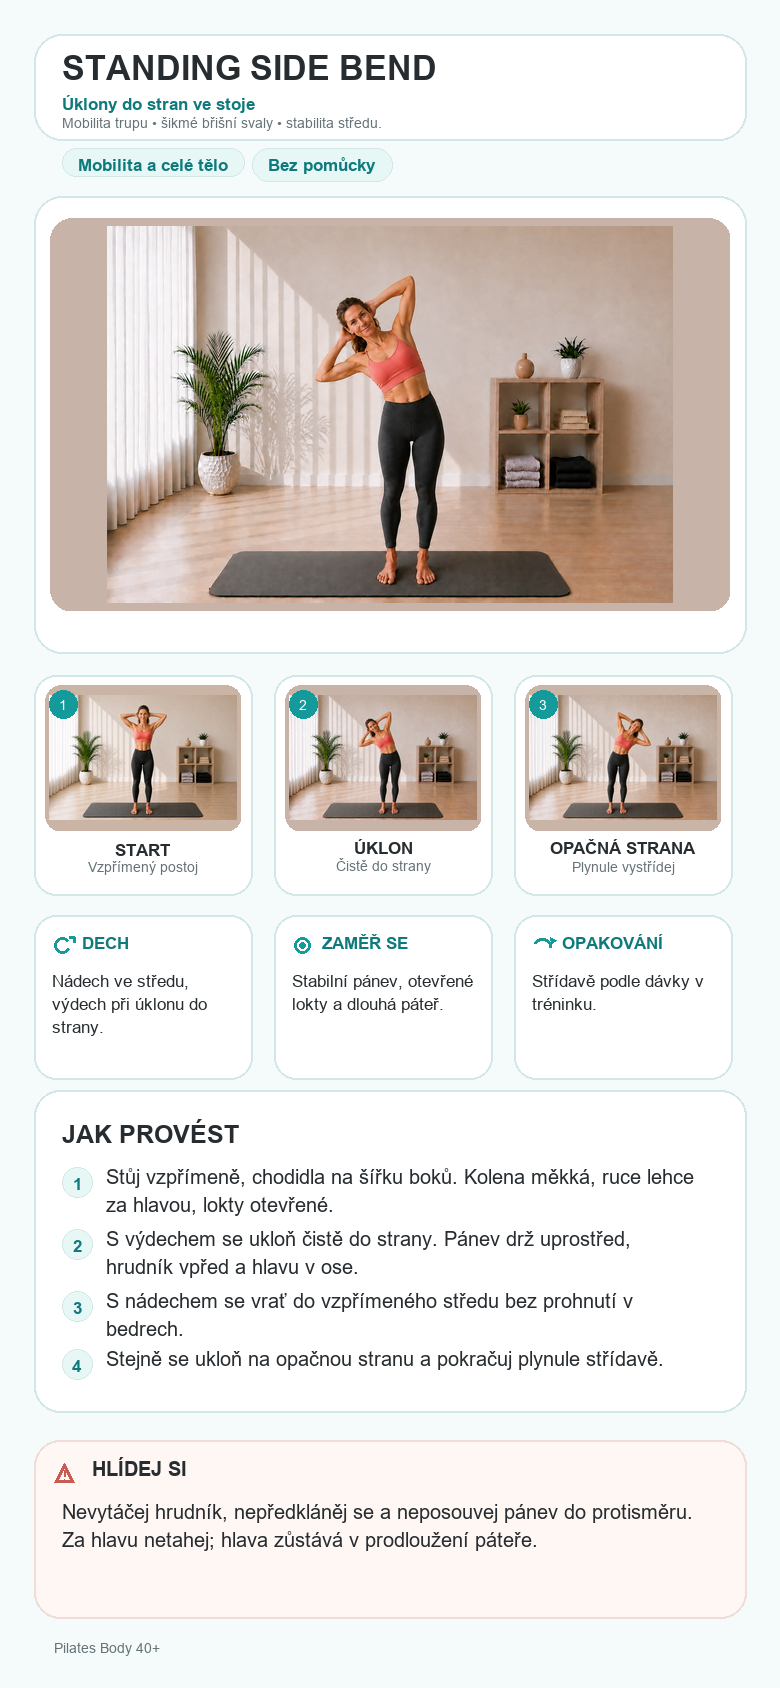
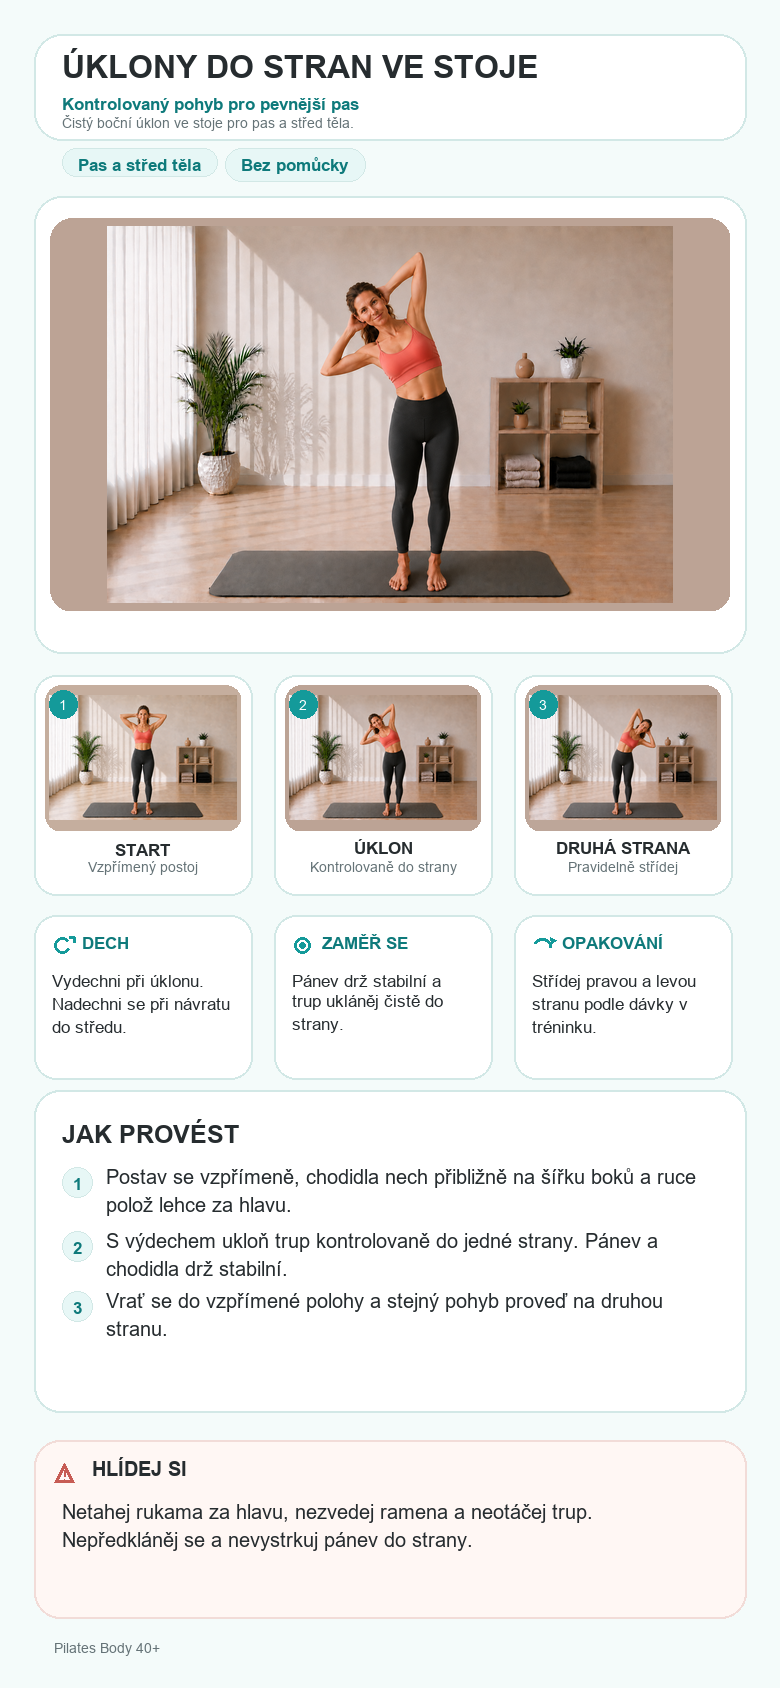
a

diff --git a/Pilates Assets/02_Exercise_Cards/Standing Side Bend/build_standing_side_bend_cards.py b/Pilates Assets/02_Exercise_Cards/Standing Side Bend/build_standing_side_bend_cards.py
@@ -1,0 +1,322 @@
+# -*- coding: utf-8 -*-
+from pathlib import Path
+import hashlib
+
+from PIL import Image, ImageDraw, ImageFont, ImageOps, ImageStat
+
+
+BASE = Path(__file__).resolve().parent
+START = BASE / "standing_side_bend_start_v02.png"
+HERO = BASE / "standing_side_bend_hero_v02.png"
+OPPOSITE = BASE / "standing_side_bend_hero_opposite_v02.png"
+GUIDE = BASE / "standing_side_bend_guide_card_v01.png"
+STEP = BASE / "standing_side_bend_step_by_step_v01.png"
+EXPECTED_HASHES = {
[3 lines of base64/hex data omitted]
+}
+
+BG = (244, 251, 250)
+CARD = (255, 255, 255)
+INK = (38, 44, 47)
+MUTED = (101, 115, 119)
+TEAL = (20, 154, 154)
+TEAL_D = (14, 122, 123)
+LINE = (210, 232, 230)
+SOFT = (231, 247, 246)
+WARN = (255, 247, 244)
+WARN_LINE = (242, 220, 216)
+WARN_ICON = (199, 92, 84)
+FONT_DIR = Path(r"C:\Windows\Fonts")
+
+def sha256(path):
+    return hashlib.sha256(path.read_bytes()).hexdigest()
+
+
+def font(name, size):
+    for candidate in (FONT_DIR / name, FONT_DIR / "arial.ttf", FONT_DIR / "segoeui.ttf"):
+        if candidate.exists():
+            return ImageFont.truetype(str(candidate), size)
+    return ImageFont.load_default()
+
+
+F = {
+    "title": font("arialbd.ttf", 34),
+    "h2": font("arialbd.ttf", 25),
+    "h3": font("arialbd.ttf", 20),
+    "body": font("arial.ttf", 20),
+    "small": font("arial.ttf", 17),
+    "small_b": font("arialbd.ttf", 17),
+    "tiny": font("arial.ttf", 14),
+    "step_title": font("arialbd.ttf", 38),
+    "step_h": font("arialbd.ttf", 24),
+    "step_body": font("arial.ttf", 23),
+}
+
+
+def rounded(draw, box, radius=28, fill=CARD, outline=LINE, width=2):
+    draw.rounded_rectangle(box, radius=radius, fill=fill, outline=outline, width=width)
+
+
+def wrap_text(draw, text, selected_font, max_width):
+    lines, current = [], ""
+    for word in text.split():
+        candidate = (current + " " + word).strip()
+        if draw.textbbox((0, 0), candidate, font=selected_font)[2] <= max_width or not current:
+            current = candidate
+        else:
+            lines.append(current)
+            current = word
+    if current:
+        lines.append(current)
+    return lines
+
+
+def draw_wrapped(draw, xy, text, selected_font, fill, max_width, line_gap=7):
+    x, y = xy
+    last_bottom = y
+    for line in wrap_text(draw, text, selected_font, max_width):
+        draw.text((x, y), line, font=selected_font, fill=fill)
+        bbox = draw.textbbox((x, y), line, font=selected_font)
+        last_bottom = bbox[3]
+        y += draw.textbbox((0, 0), line, font=selected_font)[3] + line_gap
+    return y, last_bottom
+
+
+def fit_image(path, size, centering=(0.5, 0.58)):
+    with Image.open(path) as source:
+        return ImageOps.fit(
+            source.convert("RGB"), size, method=Image.Resampling.LANCZOS, centering=centering
+        )
+
+
+def contain_image(path, size, margin=6):
+    with Image.open(path) as source:
+        rgb = source.convert("RGB")
+        inner_size = (size[0] - 2 * margin, size[1] - 2 * margin)
+        contained = ImageOps.contain(rgb, inner_size, method=Image.Resampling.LANCZOS)
+        width, height = rgb.size
+        wall_sample = rgb.crop((width // 3, 0, 2 * width // 3, max(1, height // 6)))
+        background = tuple(round(value) for value in ImageStat.Stat(wall_sample).mean)
+        canvas = Image.new("RGB", size, background)
+        canvas.paste(contained, ((size[0] - contained.width) // 2, (size[1] - contained.height) // 2))
+        return canvas
+
+def paste_round(base, image, box, radius=22):
+    x1, y1, x2, y2 = box
+    size = (x2 - x1, y2 - y1)
+    if image.size != size:
+        image = image.resize(size, Image.Resampling.LANCZOS)
+    mask = Image.new("L", size, 0)
+    ImageDraw.Draw(mask).rounded_rectangle((0, 0, size[0], size[1]), radius=radius, fill=255)
+    base.paste(image, (x1, y1), mask)
+
+
+def center_text(draw, box, text, selected_font, fill):
+    x1, y1, x2, y2 = box
+    bbox = draw.textbbox((0, 0), text, font=selected_font)
+    x = x1 + (x2 - x1 - (bbox[2] - bbox[0])) / 2
+    y = y1 + (y2 - y1 - (bbox[3] - bbox[1])) / 2 - 2
+    draw.text((x, y), text, font=selected_font, fill=fill)
+
+
+def pill(draw, xy, text, selected_font):
+    x, y = xy
+    bbox = draw.textbbox((0, 0), text, font=selected_font)
+    box = (x, y, x + bbox[2] - bbox[0] + 32, y + bbox[3] - bbox[1] + 16)
+    draw.rounded_rectangle(box, radius=16, fill=SOFT, outline=LINE, width=1)
+    draw.text((x + 16, y + 7), text, font=selected_font, fill=TEAL_D)
+    return box[2] + 8
+
+
+def draw_icon(draw, center, kind, color=TEAL):
+    x, y = center
+    if kind == "breath":
+        draw.arc((x - 8, y - 8, x + 8, y + 8), 25, 320, fill=color, width=3)
+        draw.line((x + 7, y - 8, x + 12, y - 8, x + 12, y - 3), fill=color, width=3)
+    elif kind == "focus":
+        draw.ellipse((x - 8, y - 8, x + 8, y + 8), outline=color, width=3)
+        draw.ellipse((x - 3, y - 3, x + 3, y + 3), fill=color)
+    elif kind == "repeat":
+        draw.arc((x - 9, y - 7, x + 9, y + 7), 200, 20, fill=color, width=3)
+        draw.polygon([(x + 8, y - 8), (x + 14, y - 5), (x + 9, y - 1)], fill=color)
+    elif kind == "warn":
+        draw.polygon([(x, y - 10), (x - 10, y + 9), (x + 10, y + 9)], outline=color, width=3)
+        draw.line((x, y - 3, x, y + 3), fill=color, width=2)
+        draw.ellipse((x - 1, y + 6, x + 1, y + 8), fill=color)
+
+
+def ensure_bottom_margin(name, bottom, card_bottom, minimum=20):
+    margin = card_bottom - bottom
+    if margin < minimum:
+        raise RuntimeError(f"{name} bottom margin {margin}px is below {minimum}px")
+    return margin
+
+
+def verify_sources():
+    for path, expected_hash in EXPECTED_HASHES.items():
+        if not path.exists():
+            raise FileNotFoundError(path)
+        with Image.open(path) as image:
+            if image.size != (1536, 1024):
+                raise RuntimeError(f"Unexpected source size for {path.name}: {image.size}")
+        if sha256(path) != expected_hash:
+            raise RuntimeError(f"SHA mismatch for {path.name}")
+
+
+def build_guide():
+    image = Image.new("RGB", (780, 1688), BG)
+    draw = ImageDraw.Draw(image)
+    margins = {}
+
+    rounded(draw, (34, 34, 746, 140))
+    draw.text((62, 49), "ÚKLONY DO STRAN VE STOJE", font=font("arialbd.ttf", 32), fill=INK)
+    draw.text((62, 94), "Kontrolovaný pohyb pro pevnější pas", font=F["small_b"], fill=TEAL_D)
+    _, desc_bottom = draw_wrapped(
+        draw, (62, 115), "Čistý boční úklon ve stoje pro pas a střed těla.",
+        F["tiny"], MUTED, 650, 2
+    )
+    margins["GUIDE DESCRIPTION"] = 140 - desc_bottom
+    x = pill(draw, (62, 148), "Pas a střed těla", F["small_b"])
+    pill(draw, (x, 148), "Bez pomůcky", F["small_b"])
+
+    rounded(draw, (34, 196, 746, 653))
+    paste_round(image, contain_image(HERO, (680, 393), 8), (50, 218, 730, 611))
+
+    mini_y, mini_w, mini_h = 675, 218, 146
+    xs = [34, 274, 514]
+    labels = [
+        ("START", "Vzpřímený postoj", START),
+        ("ÚKLON", "Kontrolovaně do strany", HERO),
+        ("DRUHÁ STRANA", "Pravidelně střídej", OPPOSITE),
+    ]
+    for index, (x0, (label, caption, source)) in enumerate(zip(xs, labels), 1):
+        card_bottom = mini_y + mini_h + 74
+        rounded(draw, (x0, mini_y, x0 + mini_w, card_bottom), 22)
+        paste_round(image, contain_image(source, (mini_w - 22, mini_h), 4),
+                    (x0 + 11, mini_y + 10, x0 + mini_w - 11, mini_y + 10 + mini_h), 16)
+        draw.ellipse((x0 + 15, mini_y + 15, x0 + 43, mini_y + 43), fill=TEAL)
+        center_text(draw, (x0 + 15, mini_y + 15, x0 + 43, mini_y + 43), str(index), F["tiny"], CARD)
+        center_text(draw, (x0 + 5, mini_y + mini_h + 14, x0 + mini_w - 5, mini_y + mini_h + 40), label, F["small_b"], INK)
+        center_text(draw, (x0 + 8, mini_y + mini_h + 38, x0 + mini_w - 8, mini_y + mini_h + 57), caption, F["tiny"], MUTED)
+        caption_bottom = draw.textbbox((0, 0), caption, font=F["tiny"])[3] + mini_y + mini_h + 38
+        margins[f"GUIDE MINI {index}"] = card_bottom - caption_bottom
+
+    info_y, box_w, box_h = 915, 218, 164
+    info = [
+        ("breath", "DECH", "Vydechni při úklonu. Nadechni se při návratu do středu."),
+        ("focus", "ZAMĚŘ SE", "Pánev drž stabilní a trup ukláněj čistě do strany."),
+        ("repeat", "OPAKOVÁNÍ", "Střídej pravou a levou stranu podle dávky v tréninku."),
+    ]
+    for index, (x0, (kind, heading, body)) in enumerate(zip(xs, info), 1):
+        card_bottom = info_y + box_h
+        rounded(draw, (x0, info_y, x0 + box_w, card_bottom), 22)
+        draw_icon(draw, (x0 + 28, info_y + 30), kind)
+        draw.text((x0 + 48, info_y + 18), heading, font=F["small_b"], fill=TEAL_D)
+        _, body_bottom = draw_wrapped(draw, (x0 + 18, info_y + 56), body, F["small"], INK, box_w - 36, 4)
+        margins[f"GUIDE INFO {index}"] = ensure_bottom_margin(f"Guide info {index}", body_bottom, card_bottom)
+
+    rounded(draw, (34, 1090, 746, 1412), 26)
+    draw.text((62, 1120), "JAK PROVÉST", font=F["h2"], fill=INK)
+    how = [
+        ("1", "Postav se vzpřímeně, chodidla nech přibližně na šířku boků a ruce polož lehce za hlavu."),
+        ("2", "S výdechem ukloň trup kontrolovaně do jedné strany. Pánev a chodidla drž stabilní."),
+        ("3", "Vrať se do vzpřímené polohy a stejný pohyb proveď na druhou stranu."),
+    ]
+    y = 1165
+    for number_value, body in how:
+        draw.ellipse((62, y + 2, 92, y + 32), fill=SOFT, outline=LINE, width=1)
+        center_text(draw, (62, y + 2, 92, y + 32), number_value, F["small_b"], TEAL_D)
+        y, body_bottom = draw_wrapped(draw, (106, y), body, F["body"], INK, 590, 5)
+        margins[f"GUIDE STEP {number_value}"] = 1412 - body_bottom
+        y += 8
+    margins["GUIDE HOW"] = ensure_bottom_margin("Guide how", body_bottom, 1412)
+
+    rounded(draw, (34, 1440, 746, 1618), 26, WARN, WARN_LINE, 2)
+    draw_icon(draw, (64, 1473), "warn", WARN_ICON)
+    draw.text((92, 1457), "HLÍDEJ SI", font=F["h3"], fill=INK)
+    _, watch_bottom = draw_wrapped(
+        draw, (62, 1500),
+        "Netahej rukama za hlavu, nezvedej ramena a neotáčej trup. Nepředkláněj se a nevystrkuj pánev do strany.",
+        F["body"], INK, 640, 5
+    )
+    margins["GUIDE WATCH"] = ensure_bottom_margin("Guide watch", watch_bottom, 1618)
+    draw.text((54, 1640), "Pilates Body 40+", font=F["tiny"], fill=MUTED)
+
+    image.save(GUIDE)
+    return margins
+def build_step():
+    image = Image.new("RGB", (780, 2280), BG)
+    draw = ImageDraw.Draw(image)
+    rounded(draw, (34, 34, 746, 126))
+    draw.text((62, 56), "Krok za krokem", font=F["step_title"], fill=INK)
+    draw.text((62, 98), "ÚKLONY DO STRAN VE STOJE", font=F["small_b"], fill=TEAL_D)
+
+    steps = [
+        ("KROK 1", "VÝCHOZÍ POLOHA",
+         "Postav se vzpřímeně, chodidla nech přibližně na šířku boků a ruce polož lehce za hlavu. Lokty nech otevřené do stran.", START),
+        ("KROK 2", "ÚKLON DO STRANY",
+         "S výdechem ukloň trup kontrolovaně do jedné strany. Pánev drž stabilní a obě chodidla nech pevně na podložce.", HERO),
+        ("KROK 3", "DRUHÁ STRANA",
+         "Vrať se do vzpřímené polohy a pohyb zopakuj na druhou stranu. Pravou a levou stranu pravidelně střídej.", OPPOSITE),
+    ]
+    y, margins = 160, {}
+    for step_label, heading, body, source in steps:
+        card_height = 595
+        card_bottom = y + card_height
+        rounded(draw, (34, y, 746, card_bottom))
+        draw.rounded_rectangle((58, y + 24, 148, y + 54), radius=15, fill=SOFT, outline=LINE, width=1)
+        center_text(draw, (58, y + 24, 148, y + 54), step_label, F["small_b"], TEAL_D)
+        draw.text((62, y + 72), heading, font=F["step_h"], fill=INK)
+        image_bottom = y + 466
+        paste_round(image, contain_image(source, (656, 352), 6), (62, y + 114, 718, image_bottom))
+        _, body_bottom = draw_wrapped(draw, (62, image_bottom + 16), body, F["step_body"], INK, 656, 7)
+        margins[step_label] = ensure_bottom_margin(step_label, body_bottom, card_bottom)
+        y += card_height + 5
+
+    rounded(draw, (34, y, 746, y + 275), 28, WARN, WARN_LINE, 2)
+    draw_icon(draw, (66, y + 45), "breath")
+    draw.text((98, y + 28), "DECH", font=F["step_h"], fill=INK)
+    next_y, breath_bottom = draw_wrapped(
+        draw, (62, y + 78),
+        "Vydechni při úklonu. Nadechni se při návratu do vzpřímené polohy.",
+        F["step_body"], INK, 650, 8
+    )
+    margins["STEP BREATH"] = y + 275 - breath_bottom
+    draw_icon(draw, (66, next_y + 29), "warn", WARN_ICON)
+    draw.text((98, next_y + 12), "HLÍDEJ SI", font=F["step_h"], fill=INK)
+    _, watch_bottom = draw_wrapped(
+        draw, (62, next_y + 52),
+        "Netahej rukama za hlavu, nezvedej ramena a neotáčej trup. Ukláněj se čistě do strany, nepředkláněj se a nevystrkuj pánev.",
+        F["body"], INK, 650, 5
+    )
+    margins["STEP WATCH"] = ensure_bottom_margin("Step watch", watch_bottom, y + 275)
+    draw.text((54, 2240), "Pilates Body 40+", font=F["tiny"], fill=MUTED)
+
+    image.save(STEP)
+    return margins
+def main():
+    verify_sources()
+    before = {path: sha256(path) for path in EXPECTED_HASHES}
+    guide_margins = build_guide()
+    step_margins = build_step()
+    after = {path: sha256(path) for path in EXPECTED_HASHES}
+    if before != after:
+        raise RuntimeError("Source image hash changed during export")
+    for path, expected_size in ((GUIDE, (780, 1688)), (STEP, (780, 2280))):
+        with Image.open(path) as image:
+            if image.size != expected_size:
+                raise RuntimeError(f"Unexpected export size for {path.name}: {image.size}")
+    print(f"Exported {GUIDE.name} 780x1688 SHA-256 {sha256(GUIDE)}")
+    print(f"Exported {STEP.name} 780x2280 SHA-256 {sha256(STEP)}")
+    for label, margin in guide_margins.items():
+        print(f"{label} bottom reserve: {margin}px")
+    for label, margin in step_margins.items():
+        print(f"{label} bottom reserve: {margin}px")
+    for path, digest in after.items():
+        print(f"Source unchanged {path.name}: {digest}")
+
+
+if __name__ == "__main__":
+    main()

diff --git a/Pilates Assets/02_Exercise_Cards/Standing Side Bend/STATUS.md b/Pilates Assets/02_Exercise_Cards/Standing Side Bend/STATUS.md
@@ -1,24 +1,41 @@
-# Standing Side Bend — STATUS
+# Standing Side Bend - STATUS
 
-Status: HOTOVO
+Status: HOTOVO / ASSETY v02 PRIPRAVENE
 
 ## Assets
 
-- EXERCISE_REFERENCE: není uložená v MASTER balíčku
-- START: `standing_side_bend_start_v01.png` — SCHVÁLENO
-- HERO: `standing_side_bend_hero_v01.png` — SCHVÁLENO
-- HERO OPAČNÁ STRANA: `standing_side_bend_hero_opposite_v01.png` — SCHVÁLENO
-- END: návrat do START bez samostatného END PNG — SCHVÁLENO
-- GUIDE CARD: `standing_side_bend_guide_card_v01.png` — SCHVÁLENO
-- STEP BY STEP: `standing_side_bend_step_by_step_v01.png` — SCHVÁLENO
+- EXERCISE_REFERENCE: neni ulozena v MASTER balicku
+- START: `standing_side_bend_start_v02.png` - SCHVALENO
+- HERO: `standing_side_bend_hero_v02.png` - SCHVALENO
+- HERO OPACNA STRANA: `standing_side_bend_hero_opposite_v02.png` - SCHVALENO
+- END: navrat do START v02 bez samostatneho END PNG
+- GUIDE CARD: `standing_side_bend_guide_card_v01.png` - VYGENEROVANO
+- STEP BY STEP: `standing_side_bend_step_by_step_v01.png` - VYGENEROVANO
 - EXPORT: HOTOVO
-- QA: SCHVÁLENO
-- APP: NASAZENO
+- QA: HOTOVO - vizualni kontrola exportu
+- APP: BEZE ZMENY V TOMTO UKOLU
 
 ## Workflow
 
-START → úklon na jednu stranu → START → úklon na opačnou stranu
+START -> HERO jedna strana -> HERO opacna strana
+
+## Source verification
+
[6 lines of base64/hex data omitted]
+
+## Export verification
+
+- Guide Card: `standing_side_bend_guide_card_v01.png`, 780 x 1688 px, RGB
+- Step by Step: `standing_side_bend_step_by_step_v01.png`, 780 x 2280 px, RGB
 
 ## Notes
 
-Nasazeno pod kanonickým ID `standing_side_bend`. Jde o čistý boční úklon bez rotace, předklonu a přitahování lokte ke koleni. Programové dávky ve dnech 4, 11, 20 a 25 zůstaly beze změny.
+- Schvalene SOURCE fotografie nebyly vizualne upravovany.
+- HERO 1 a HERO 2 jsou skutecne opacne strany cisteho bocniho uklonu, bez zrcadleni.
+- Builder pouziva pouze v02 SOURCE soubory.
+- V tomto ukolu neprobehlo nasazeni do aplikace; programove davky a poradi zustaly beze zmeny.

diff --git a/00_CHATGPT_START/MASTER/01_DOCUMENTS/EXERCISE_PROGRESS.md b/00_CHATGPT_START/MASTER/01_DOCUMENTS/EXERCISE_PROGRESS.md
@@ -94,7 +94,7 @@ Programové zařazení: Side Kick je použit ve dnech 18 a 25; Child's Pose je p
 | Sphinx Stretch | ❌ | ✅ | ✅ | ✅ | ✅ | ✅ | ✅ | ✅ | ✅ | HOTOVO | Statický stretch; START/HERO/END používají schválený START v01 bez fyzického HERO/END PNG; Guide Card a Step by Step v01 manuálně schválené; App nasazena jako `sphinx` |
 | Spine Stretch | ❌ | ✅ | ✅ | ✅ | ✅ | ✅ | ✅ | ✅ | ✅ | HOTOVO | START/HERO v01 schválené a nasazené; END = START bez samostatného PNG; Guide Card a Step by Step v01 vytvořené a ověřené; App nasazena pod ID `spine` |
 | Standing Oblique Crunch | ❌ | ✅ | ✅ | ✅ | ✅ | ✅ | ✅ | ✅ | ✅ | HOTOVO | START a obě HERO strany v02 schválené; sekvence START → úklon k jednomu kolenu → úklon na opačnou stranu; Guide Card a Step by Step v01 přegenerované ze SOURCE v02; App nasazena pod kanonickým ID `standing_oblique`; programové dávky beze změny |
-| Standing Side Bend | ⛔ | ✅ | ✅ | ✅ | ✅ | ✅ | ✅ | ✅ | ✅ | HOTOVO | START a obě HERO strany v01 schválené; END = START; Guide Card a Step by Step v01 schválené; App nasazena pod kanonickým ID `standing_side_bend`; čistý boční úklon bez rotace a bez přitahování lokte ke koleni |
+| Standing Side Bend | ⛔ | ✅ | ✅ | ✅ | ✅ | ✅ | ✅ | ✅ | ✅ | HOTOVO | START a obě HERO strany v02 schválené; sekvence START → úklon do strany → úklon na opačnou stranu; Guide Card a Step by Step v01 přegenerované ze SOURCE v02; App beze změny v tomto úkolu; čistý boční úklon bez rotace a bez přitahování lokte ke koleni |
 | Supine Twist | ❌ | ✅ | ✅ | ✅ | ✅ | ✅ | ✅ | ✅ | ✅ | HOTOVO | START/HERO, Guide Card a Step by Step v01 schválené; END = START bez samostatného PNG; App nasazena pod kanonickým ID `supine_twist` ve v59.101-dev; sekvence START → HERO → START |
 | Swan Prep | ❌ | ✅ | ✅ | ✅ | ✅ | ✅ | ✅ | ✅ | ✅ | HOTOVO | START/HERO, Guide Card a Step by Step v01 schválené; END = START bez samostatného PNG; App nasazena pod kanonickým ID `swan` ve v59.105-dev; sekvence START → HERO → START |
 | Swimming | ❌ | ✅ | ✅ | ✅ | ✅ | ✅ | ✅ | ✅ | ✅ | HOTOVO | START/HERO v01 schválené; END = START bez samostatného PNG; střídavý pohyb používá stejný HERO bez zrcadlení a opačná fáze je vysvětlena textem; Guide Card a Step by Step v01 vytvořené a ověřené; App nasazena pod kanonickým ID `swimming`; programové dávky beze změny |

diff --git a/Pilates Assets/00_Project_Status/EXERCISE_STATUS.md b/Pilates Assets/00_Project_Status/EXERCISE_STATUS.md
@@ -45,7 +45,7 @@ Generated: 2026-07-20T06:30:19.359Z
 | Sphinx Stretch | `Pilates Assets/02_Exercise_Cards/Sphinx Stretch` | NE | NE | NE | NE | NE | EMPTY | .gitkeep |
 | Spine Stretch | `Pilates Assets/02_Exercise_Cards/Spine Stretch` | NE | NE | NE | NE | NE | EMPTY | .gitkeep |
 | Standing Oblique Crunch | `Pilates Assets/02_Exercise_Cards/Standing Oblique Crunch` | `standing_oblique_crunch_start_v02.png` | `standing_oblique_crunch_hero_v02.png` + `standing_oblique_crunch_hero_opposite_v02.png` | `standing_oblique_crunch_guide_card_v01.png` | `standing_oblique_crunch_step_by_step_v01.png` | NE | COMPLETE | HERO opposite = `standing_oblique_crunch_hero_opposite_v02.png`; END = START v02 reuse; App nasazena pod kanonickym ID `standing_oblique` |
-| Standing Side Bend | `Pilates Assets/02_Exercise_Cards/Standing Side Bend` | NE | NE | NE | NE | NE | EMPTY | .gitkeep |
+| Standing Side Bend | `Pilates Assets/02_Exercise_Cards/Standing Side Bend` | `standing_side_bend_start_v02.png` | `standing_side_bend_hero_v02.png` + `standing_side_bend_hero_opposite_v02.png` | `standing_side_bend_guide_card_v01.png` | `standing_side_bend_step_by_step_v01.png` | NE | COMPLETE | HERO opposite = `standing_side_bend_hero_opposite_v02.png`; END = START v02 reuse; App beze zmeny v tomto ukolu |
 | Supine Twist | `Pilates Assets/02_Exercise_Cards/Supine Twist` | NE | NE | NE | NE | NE | EMPTY | .gitkeep |
 | Swan Prep | `Pilates Assets/02_Exercise_Cards/Swan Prep` | NE | NE | NE | NE | NE | EMPTY | .gitkeep |
 | Swimming | `Pilates Assets/02_Exercise_Cards/Swimming` | `swimming_start_v01.png` | `swimming_hero_v01.png` | `swimming_guide_card_v01.png` | `swimming_step_by_step_v01.png` | NE | COMPLETE | END = START reuse; alternating phase uses same HERO without mirrored or duplicate source |
